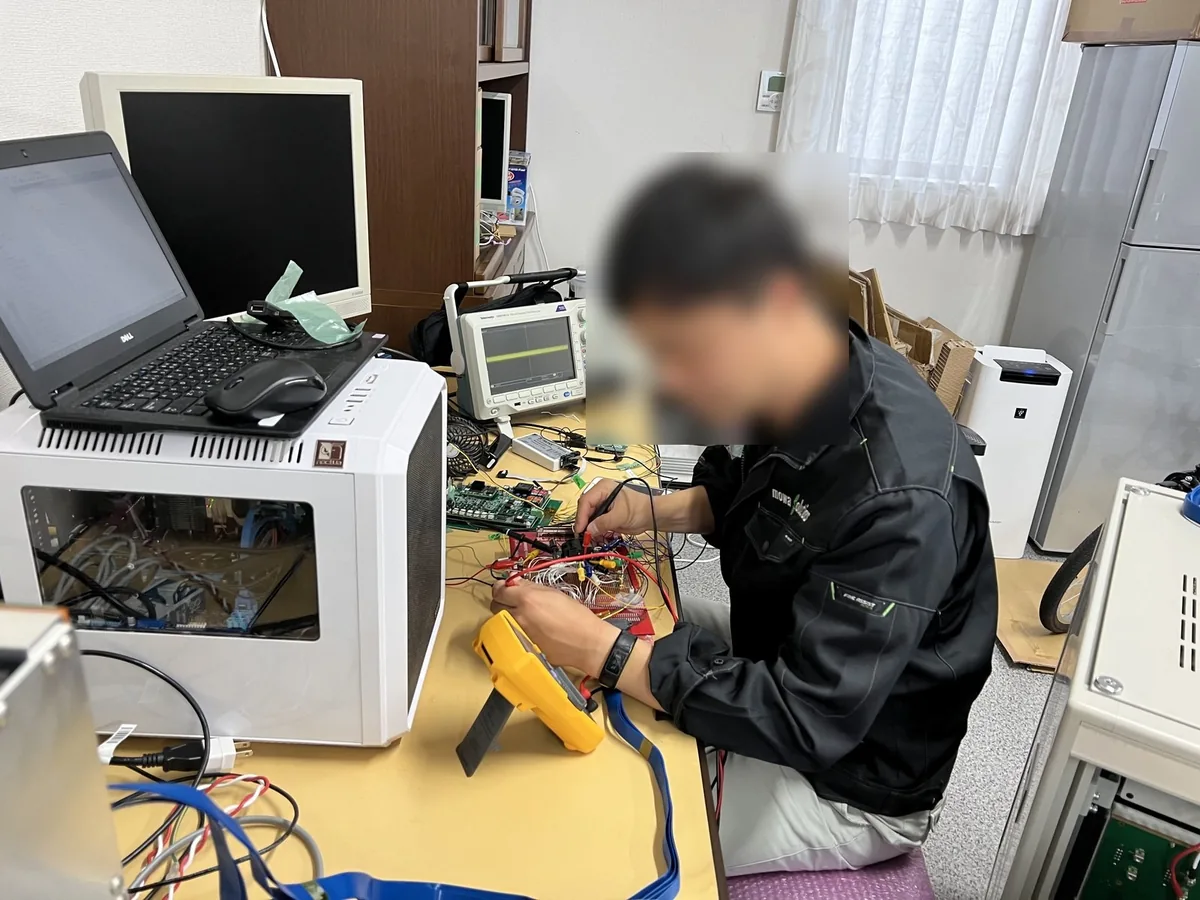
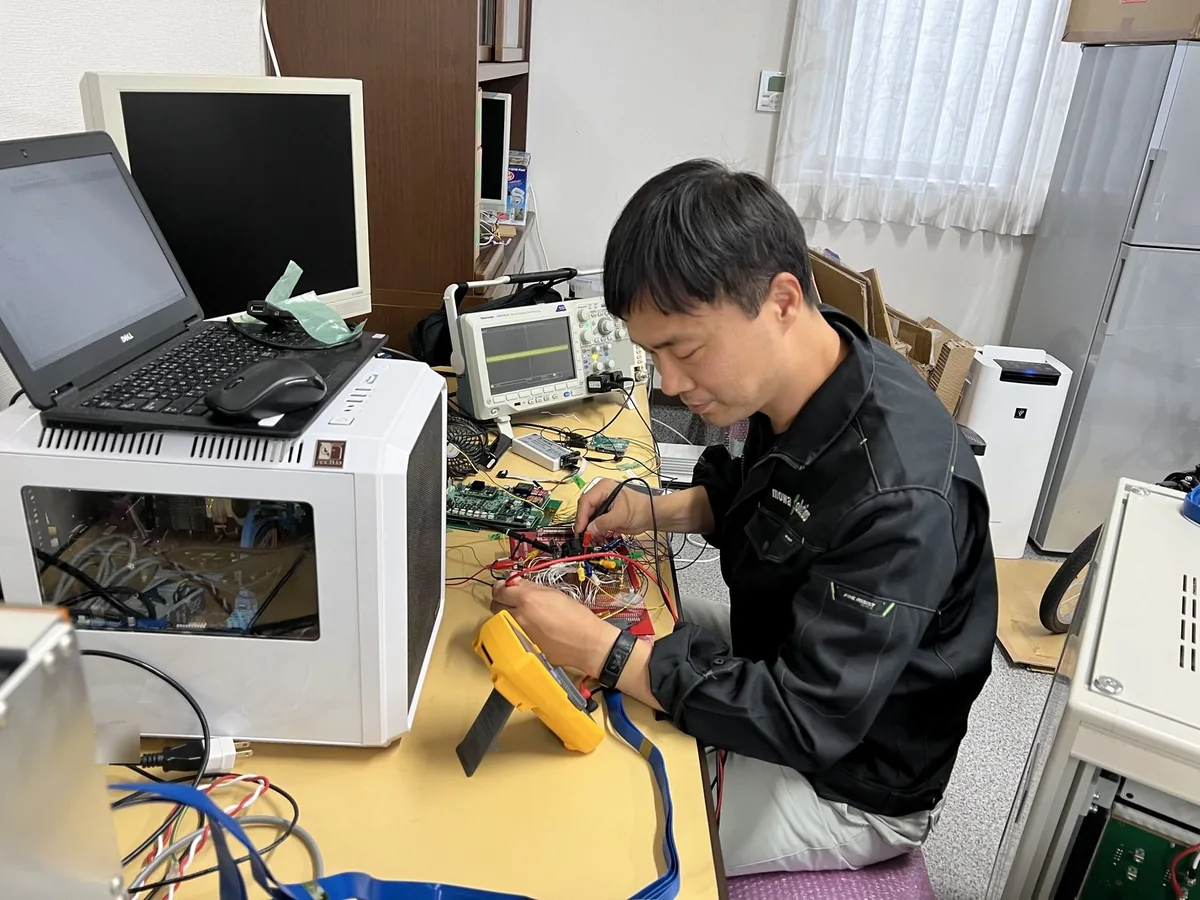
作業場の写真を顔ありの版に差し替える
代替テキストから、顔をぼかしたという説明を外す。

Changed region(s): [[0.4625, 0.1556, 0.7092, 0.4978], [0.0617, 0.8089, 0.1233, 0.8711]]

diff --git a/index.html b/index.html
@@ -506,7 +506,7 @@
           </li>
           <li>
             <figure>
-              <img class="photo" src="assets/photos/workspace-bench-work.webp" width="1200" height="900" alt="社内の作業風景。顔はぼかし済み" loading="lazy" decoding="async">
+              <img class="photo" src="assets/photos/workspace-bench-work.webp" width="1200" height="900" alt="社内の作業風景。基板を測定する様子" loading="lazy" decoding="async">
               <figcaption>作業場</figcaption>
             </figure>
           </li>
